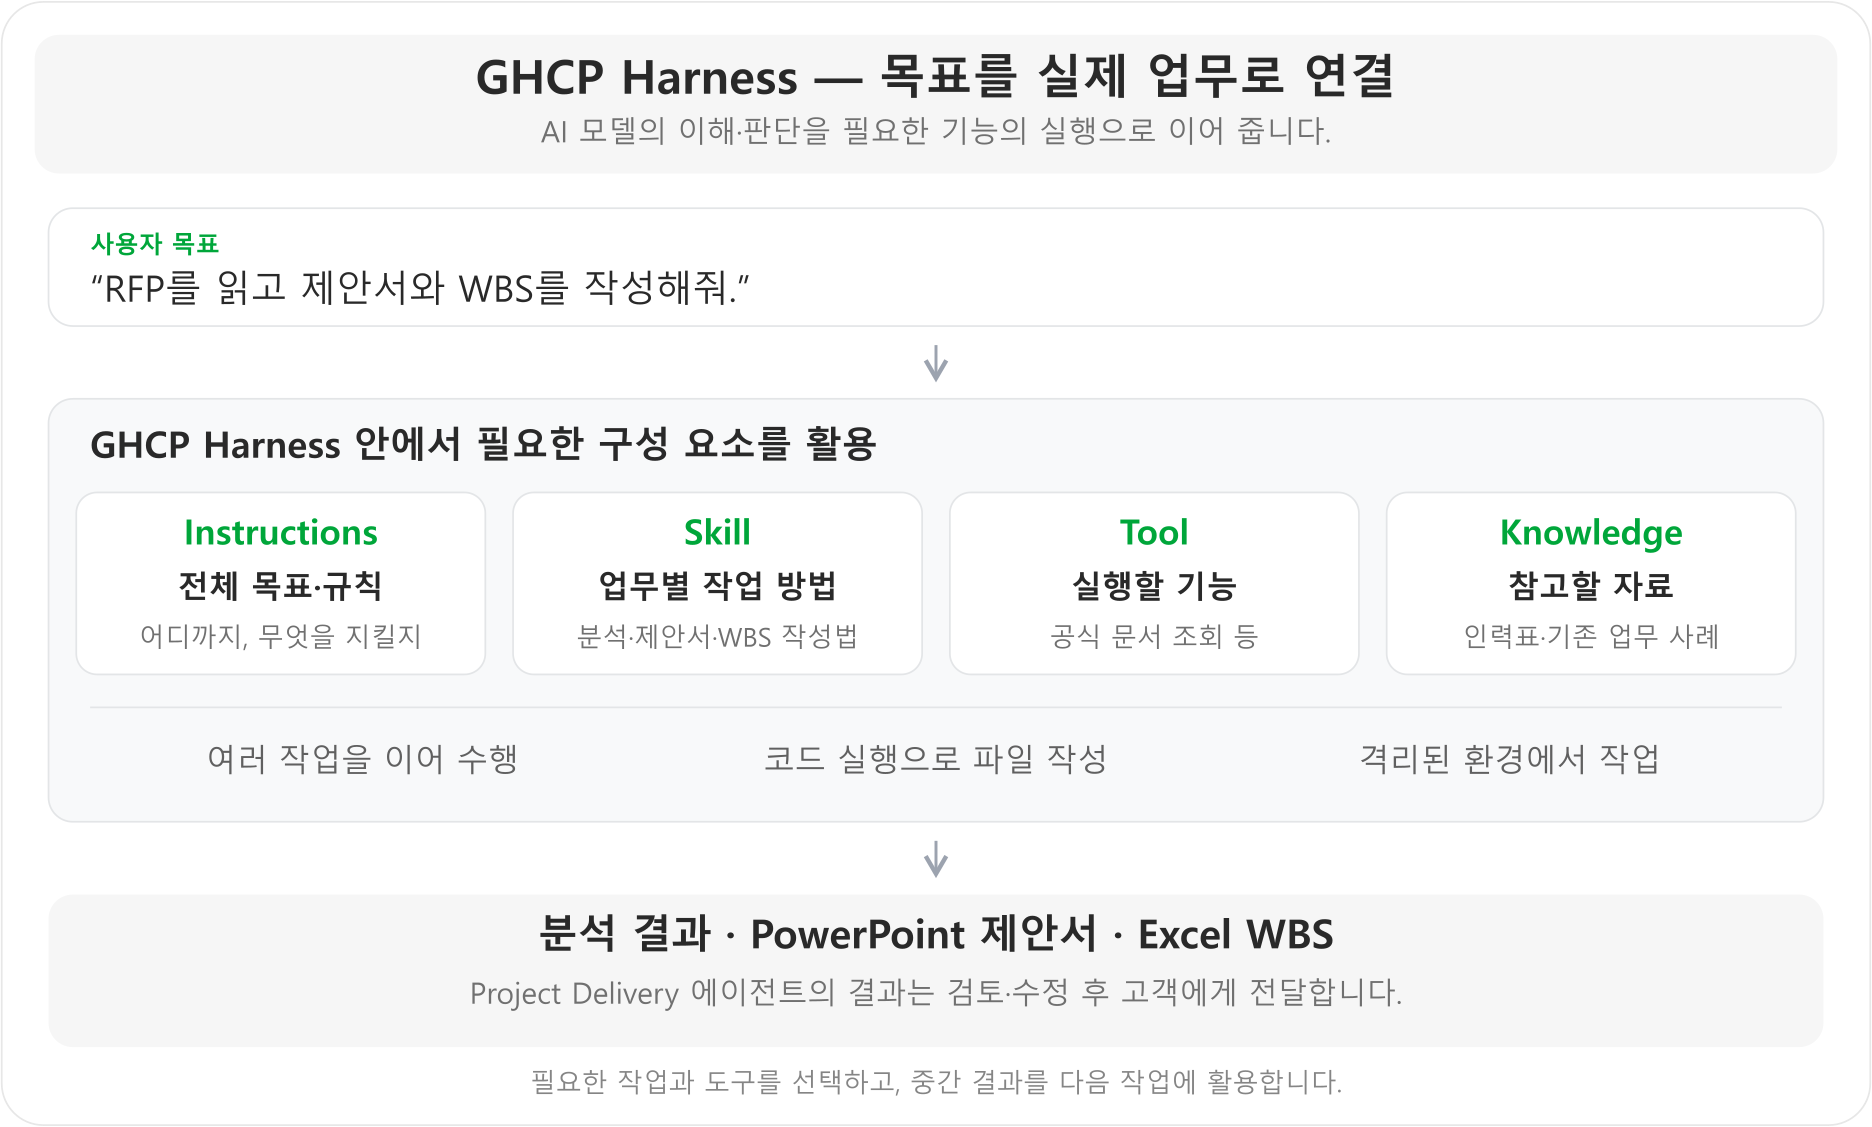
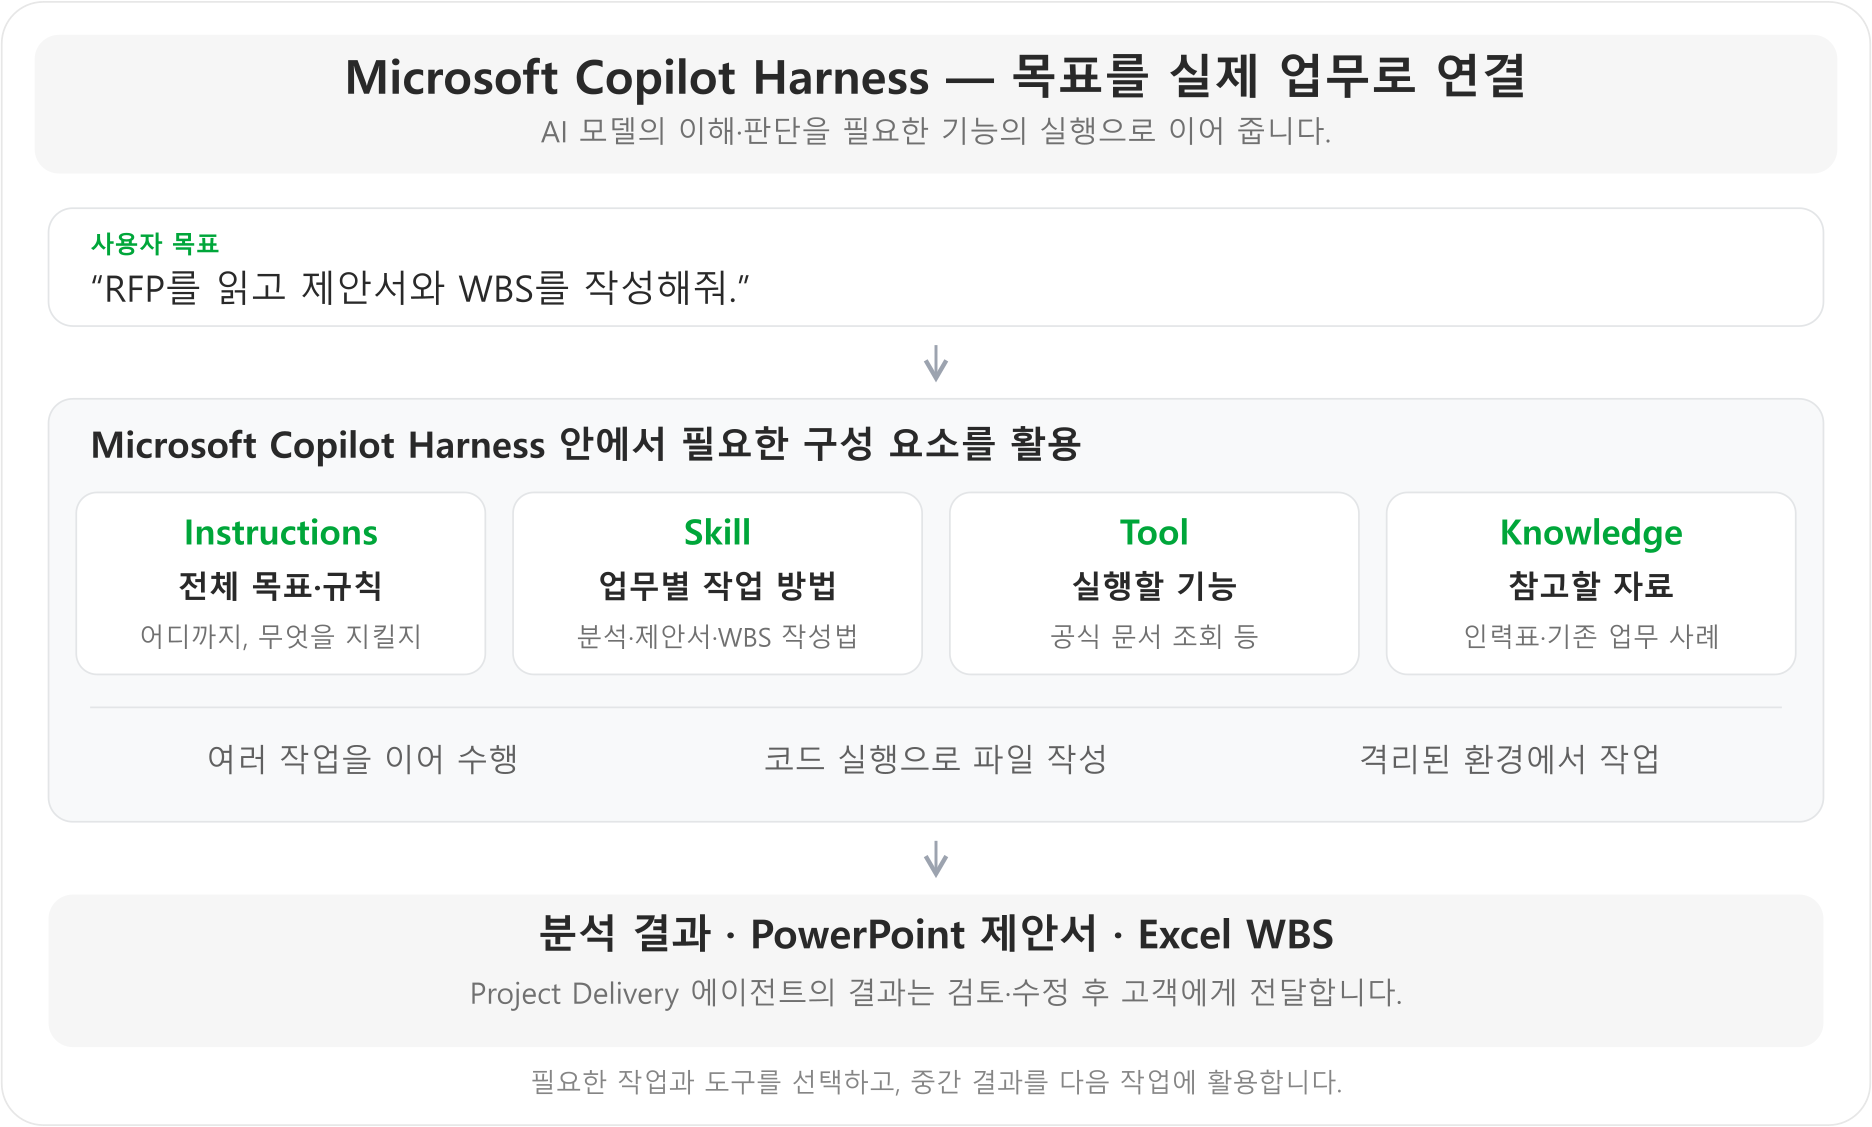
docs: adopt Microsoft Copilot Harness naming across lab materials

Changed region(s): [[0.1859, 0.0311, 0.8365, 0.0932], [0.031, 0.3727, 0.5887, 0.4037]]

diff --git a/Hands-on/lab/overview-redirect.html b/Hands-on/lab/overview-redirect.html
@@ -11,9 +11,9 @@ sitemap: false
   <meta charset="utf-8">
   <meta http-equiv="refresh" content="0; url={{ '/lab/GHCP-Harness-Overview.html' | relative_url }}">
   <link rel="canonical" href="{{ '/lab/GHCP-Harness-Overview.html' | absolute_url }}">
-  <title>GHCP Harness 개요로 이동</title>
+  <title>Microsoft Copilot Harness 개요로 이동</title>
 </head>
 <body>
-  <p><a href="{{ '/lab/GHCP-Harness-Overview.html' | relative_url }}">GHCP Harness 개요로 이동</a></p>
+  <p><a href="{{ '/lab/GHCP-Harness-Overview.html' | relative_url }}">Microsoft Copilot Harness 개요로 이동</a></p>
 </body>
 </html>

diff --git a/Hands-on/강의용스크립트_60분.md b/Hands-on/강의용스크립트_60분.md
@@ -1,4 +1,4 @@
-# GHCP Harness Hands-on Lab 비기너 교안 기준 60분 강의 스크립트
+# Microsoft Copilot Harness Hands-on Lab 비기너 교안 기준 60분 강의 스크립트
 
 핵심 표·그림을 짚고, 짧게 설명한 뒤 함께 조작합니다. 인용문은 실제 발화이며, ‘화면’과 ‘진행’은 강사용 메모입니다. 부록은 기본 설명에서 제외하고 질문이 있을 때만 참고합니다.
 
@@ -16,7 +16,7 @@
 | 시간 | 페이지 | 핵심 설명 | 실습·시연 |
 |---|---|---|---|
 | 00~02분 | [홈](lab/index.md) | 목표·준비 자료·업무 흐름 | 환경 확인 |
-| 02~05분 | [GHCP Harness 개요](lab/GHCP-Harness-Overview.md) | 구성 그림과 선택 이유 | 준비가 늦은 학습자 지원 |
+| 02~05분 | [Microsoft Copilot Harness 개요](lab/GHCP-Harness-Overview.md) | 구성 그림과 선택 이유 | 준비가 늦은 학습자 지원 |
 | 05~12분 | [Step1 에이전트 생성·지침](lab/agent-instructions.md) | 지침 구성표 1분 | 생성·이름·지침 입력 6분 |
 | 12~24분 | [Step2 Skills 구성](lab/skills.md) | 세 Skill의 역할 2분 | 분석·제안서·WBS Skill 등록 10분 |
 | 24~31분 | [Step3 Tools 등록](lab/tools-mcp.md) | Tool의 역할과 선택 이유 1분 | 연결·조회 확인 6분 |
@@ -46,17 +46,17 @@
 
 **확인:** 로그인·환경·실습 파일. 다운로드가 필요하면 **시작 전 확인**의 링크를 안내합니다. 자료 목록은 읽지 않고 에이전트 소개에 시간을 배분합니다.
 
-## 2. GHCP Harness 개요 02~05분
+## 2. Microsoft Copilot Harness 개요 02~05분
 
-**화면:** **1. GHCP Harness로 할 수 있는 일**의 구성 그림. 네 구성 요소와 맨 아래 결과 영역을 짚습니다.
+**화면:** **1. Microsoft Copilot Harness로 할 수 있는 일**의 구성 그림. 네 구성 요소와 맨 아래 결과 영역을 짚습니다.
 
 > 하네스는 AI의 판단을 실제 작업으로 연결하는 실행 환경입니다. 그림에서 지침은 전체 규칙, Skill은 업무별 방법, Tool은 실제로 쓸 기능, Knowledge는 참고할 자료입니다. 이 요소를 연결하면 자료를 확인하고 PowerPoint·Excel 파일을 만드는 작업까지 진행할 수 있습니다.
 
 **다음 화면:** **2. Project Delivery 에이전트에서 선택한 이유**의 표.
 
-> Project Delivery 에이전트는 분석부터 문서 작성까지 여러 작업을 연결하고, 도구와 자료도 함께 사용해야 했습니다. 이런 업무에 적합했고, 직접 구축했을 때 파일 작성 품질도 만족스러워 GHCP를 선택했습니다.
+> Project Delivery 에이전트는 분석부터 문서 작성까지 여러 작업을 연결하고, 도구와 자료도 함께 사용해야 했습니다. 이런 업무에 적합했고, 직접 구축했을 때 파일 작성 품질도 만족스러워 Microsoft Copilot Harness를 선택했습니다.
 >
-> 화면에 Microsoft Copilot 하네스로 표시될 수도 있습니다. 이제 직접 구성해 보겠습니다.
+> 일부 캡처에는 이전 명칭인 GitHub Copilot이 보일 수 있습니다. 이제 직접 구성해 보겠습니다.
 
 **진행:** 부록의 Standard 비교와 Agentic Loop는 설명하지 않습니다. 시간이 남으면 환경·파일 준비를 돕거나 다음 실습을 시작합니다.
 
@@ -64,7 +64,7 @@
 
 ### 05~06분 에이전트 생성
 
-**화면:** 교안 **2. GitHub Copilot 표시가 있는 에이전트 카드 선택**의 캡처를 보여주고, 실제 Copilot Studio 홈으로 이동합니다.
+**화면:** 교안 **2. Microsoft Copilot Harness 에이전트 카드 선택**의 캡처를 보여주고, 실제 Copilot Studio 홈으로 이동합니다.
 
 > 표시된 에이전트 카드를 선택해 주세요. 편집 화면이 열리면 Project Delivery 에이전트의 이름을 입력하겠습니다.
 
@@ -141,7 +141,7 @@
 **다음 화면:** **4. 도구 호출 확인**의 요청 문장 → 실제 Preview.
 
 ```text
-Microsoft Learn MCP를 사용해 Copilot Studio의 GHCP 하네스에 대해 간단하게 설명해줘.
+Microsoft Learn MCP를 사용해 Copilot Studio의 Microsoft Copilot Harness에 대해 간단하게 설명해줘.
 ```
 
 > 연결 목록에 있는 것에서 끝내지 않고 실제로 조회되는지 보겠습니다. 답변과 실행 기록에 문서 내용과 출처가 나오는지 확인해 주세요.

diff --git a/Hands-on/lab/agent-instructions.md b/Hands-on/lab/agent-instructions.md
@@ -1,13 +1,13 @@
 ---
 layout: default
-title: "Step1. GHCP Harness 에이전트 생성 및 Instructions 작성"
+title: "Step1. Microsoft Copilot Harness 에이전트 생성 및 Instructions 작성"
 nav_order: 3
 permalink: /lab/agent-instructions.html
 ---
 
-# Step1. GHCP Harness 에이전트 생성 및 Instructions 작성
+# Step1. Microsoft Copilot Harness 에이전트 생성 및 Instructions 작성
 
-**학습 목표:** GHCP 에이전트를 생성하고 이름·역할·업무 범위·공통 규칙을 입력한 뒤 저장합니다.
+**학습 목표:** Microsoft Copilot Harness 에이전트를 생성하고 이름·역할·업무 범위·공통 규칙을 입력한 뒤 저장합니다.
 
 {: .note}
 > 실습 자료 : <a href="{{ '/skills-Co/AGENT_지침.md' | relative_url }}" download>
@@ -24,15 +24,15 @@ permalink: /lab/agent-instructions.html
 
 **확인:** 선택한 환경의 홈 화면과 중앙의 에이전트 카드가 보입니다.
 
-### 2. GitHub Copilot 표시가 있는 에이전트 카드 선택
+### 2. Microsoft Copilot Harness 에이전트 카드 선택
 
-1. 아래 홈 화면 이미지의 중앙 왼쪽에 있는 **에이전트** 카드를 클릭합니다. 카드 이름 옆에 **GitHub Copilot** 표시가 있습니다.
+1. 아래 홈 화면 이미지의 중앙 왼쪽에 있는 **에이전트** 카드를 클릭합니다. 캡처에는 이전 명칭인 **GitHub Copilot**이 표시되어 있습니다. 실제 화면에서는 **Microsoft Copilot Harness**에 해당하는 에이전트 카드를 선택합니다.
     ![홈 화면: 홈 화면의 에이전트 카드 선택](../Hands-on_image/1_홈화면.png)
 
 2. 선택 후 아래 이미지처럼 **제목 없는 에이전트**의 편집 화면이 열리는지 확인합니다.
     ![생성 화면: 생성 직후의 화면과 에이전트 이름 입력 위치](../Hands-on_image/2_에이전트_생성화면.png)
 
-GHCP 에이전트를 생성할 때 사용하는 카드입니다. 하단의 **다른 빌드 방법**과 구분해 선택합니다. 명칭 변경이 반영된 환경에서는 카드에 Microsoft Copilot 관련 이름이 표시될 수 있습니다.
+Microsoft Copilot Harness 에이전트를 생성할 때 사용하는 카드입니다. 하단의 **다른 빌드 방법**과 구분해 선택합니다. 캡처와 실제 화면의 명칭이 다를 수 있으므로 Microsoft Copilot Harness에 해당하는 카드를 확인합니다.
 
 
 ### 3. 에이전트 이름 및 지침 입력
@@ -127,7 +127,7 @@ GHCP 에이전트를 생성할 때 사용하는 카드입니다. 하단의 **다
     
 **Step1 완료 체크**
 
-- [ ] 선택한 환경에서 GHCP 에이전트를 생성하고 이름을 지정했습니다.
+- [ ] 선택한 환경에서 Microsoft Copilot Harness 에이전트를 생성하고 이름을 지정했습니다.
 - [ ] 중앙 안내 영역에 역할·목표·업무 범위·공통 원칙을 입력했습니다.
 - [ ] 분석·WBS 생성·제안서 생성 Skill의 선택 조건과 실행 순서를 확인했습니다.
 - [ ] 이름과 지침을 저장하고 Skills를 추가할 준비를 마쳤습니다.

diff --git a/README.md b/README.md
@@ -1,10 +1,10 @@
 ---
 title: AI-Agent-Day
-description: GHCP Harness Agent Hands-on Lab - Just the Docs on GitHub Pages
+description: Microsoft Copilot Harness Agent Hands-on Lab - Just the Docs on GitHub Pages
 ---
 
 ## AI-Agent-Day
 
-GHCP Harness Agent Hands-on Lab - Just the Docs on GitHub Pages
+Microsoft Copilot Harness Agent Hands-on Lab - Just the Docs on GitHub Pages
 
 [Open the lab](https://tdgkoes.github.io/AI-Agent-Day/)
